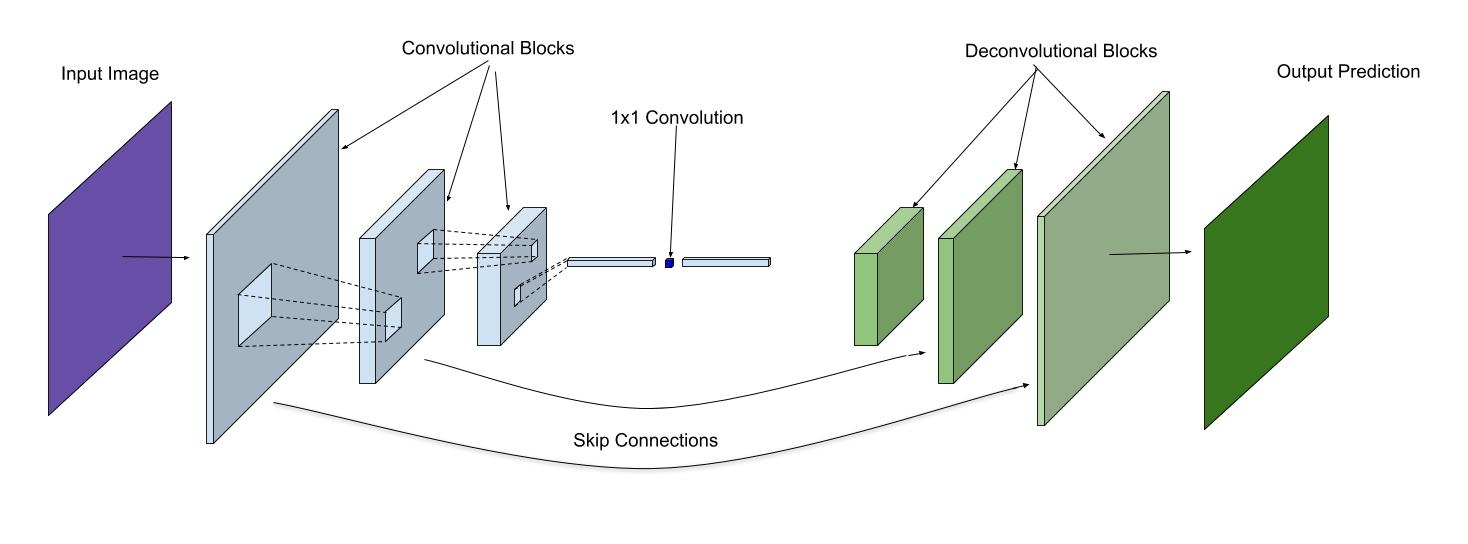
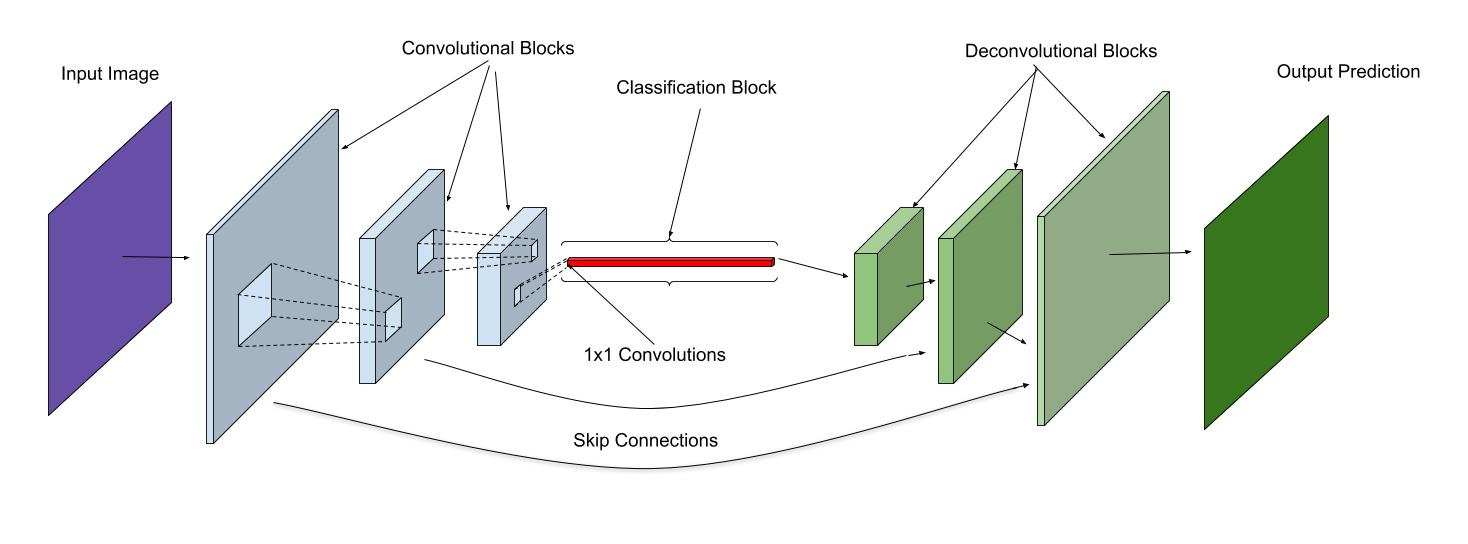
Project Media update and README List check

Changed region(s): [[0.4292, 0.125, 0.5211, 0.25], [0.3678, 0.4375, 0.5518, 0.5], [0.3985, 0.625, 0.4905, 0.6875]]

diff --git a/README.md b/README.md
@@ -9,7 +9,7 @@ This project covers the theory and techniques in training a neural network to id
 
 Given two or more groups of data within a data set, a boundary can be drawn separating the data groups. This boundary is defined by a function whose parameters can be determined through logistic regression. The goal of logistic regression function is to predict the probability of a data point being within a boundary defined by an equation. The parameters are tuned through iteration with a training data set, with the rate of tuning weighted by a learning rate. 
 
-<img src="" alt="Examples of Boundary Fitting" width="480px">
+<img src="https://github.com/bchou2012/RoboND-DeepLearning-Project-Benjamin-Chou/blob/master/writeup_media/Statistical%20Fitting.jpg?raw=true" alt="Examples of Boundary Fitting" width="480px">
 
 In the scope of this project, logistic regression is used to create predictive functions that define image features at all scales of the image, from points and simple lines to geometric shapes to distinct objects. 
 
@@ -31,7 +31,7 @@ For larger matrices larger strides can be used, which reduces output size at the
 
 The above example also shows no padding, as the convolution matrix passes over edge and corner positions far less than interior positions. Zero padding adds zeros around the perimeter of the matrix, allowing the edge positions to be evaluated as normally as non-edge positions. 
 
-<img src="https://github.com/vdumoulin/conv_arithmetic/blob/master/gif/padding_strides.gif?raw=true" alt="animated convolution example 2" width="329px">
+<img src="https://github.com/vdumoulin/conv_arithmetic/blob/master/gif/padding_strides.gif?raw=true" alt="animated convolution example 2" width="320px">
 
 *Image Source: https://github.com/vdumoulin/conv_arithmetic/*
 
@@ -41,42 +41,53 @@ The above example shows a 5x5 matrix with a 3x3 convolution run on it with a str
 
 While the images are downsized through convolutions, hidden layers are also created. These layers contain neurons, which take inputs and produce an output similar to logic gates. For the purposes of this project the neurons use two activations, rectilinear and softmax. 
 
-Rectilinear produces a nonlinear output, zero below a threshold, and a linear output above the threshold. Rectilinear units (ReLU) are used in the convolution blocks of the project. Softmax returns a vector that represents a probability distribution. This is used at the end of the fully convolutional network of the project to return the constructed probability output. 
+Rectilinear produces a nonlinear output, zero below a threshold, and a linear output above the threshold. Rectilinear units (ReLU) are used in the convolution blocks of the project. 
 
+<img src="https://cdn.tinymind.com/static/img/learn/relu.png" alt="ReLu Example" width="320px">
+
+*Image source: https://www.tinymind.com/learn/terms/relu*
+
+Softmax returns a vector that represents a probability distribution of the inputs.  This is used at the end of the fully convolutional network of the project to return the constructed probability output. 
+
+<img src="https://cdn-images-1.medium.com/max/1000/0*2r10e7gw1jzOsHhC.png" alt="Softmax Example" width="320px">
+
+*Image source: https://towardsdatascience.com/deep-learning-concepts-part-1-ea0b14b234c8* 
 
 **Fully Convolutional Neural Network**
 
-<img src="https://www.mathworks.com/content/mathworks/www/en/solutions/deep-learning/convolutional-neural-network/jcr:content/mainParsys/band_copy_copy_14735_1026954091/mainParsys/columns_1606542234_c/2/image.adapt.full.high.jpg/1530247928116.jpg" alt="Convolutional Network Structure" width="640px">
+<img src="https://github.com/bchou2012/RoboND-DeepLearning-Project-Benjamin-Chou/blob/master/writeup_media/Fully%20Convolutional%20Network.jpg?raw=true" alt="Sample FCN Diagram" width="640px">
 
-*Image Source: https://www.mathworks.com/solutions/deep-learning/convolutional-neural-network.html*
+The input is an image, broken down into three layers which represent the image's R, G, and B value at each pixel. The input undergoes any number of convolutions with smaller and smaller convolution matrix sizes but greater depth. After the last convolution the filters undergo a 1x1 convolution to reduce the number of parameters and decrease processing time. 
 
-The input is an image, broken down into three layers which represent the image's R, G, and B value at each pixel. The input undergoes any number of convolutions with smaller and smaller convolution matrix sizes but greater depth. After the last convolution the data undergoes a 1x1 convolution to reduce dimensionality and decrease processing time. 
+The classifcations are then built back up into an output prediction image using deconvolutional layers, which builds up larger images from smaller images using bilinear upsampling, which predicts what the missing data values would be in upscaling.  
 
-The predictions are then built back up into an output prediction image using deconvolutional layers, which builds up larger images from smaller images using bilinear upsampling. 
-
-For a fully convolutional neural network, skip connections are added, which connects convolutional layers to deconvolutional layers. This helps with the possible data loss and artifacts created through bilinear upsampling. 
+Skip connections are added, which connects convolutional layers to deconvolutional layers. This helps with the possible data loss and artifacts created through bilinear upsampling by providing the data of same filter level before the downsampling/upsampling process.  
  
-
-*1x1 Convolution*
-
-
-
-
-
-
 ## Collecting Training Data
+
 Due to time constraints the GitHub provided data set was used to train the network. While exploration of the environment and pathing was set in QuadSim, a satisfactory and thorough data set was unable to be recorded. 
+
+<img src="https://github.com/bchou2012/RoboND-DeepLearning-Project-Benjamin-Chou/blob/master/docs/misc/sim_screenshot.png?raw=true" alt="Quadsim in action" width="320px">
+
 
 ## Implement the Segmentation Network
 
-The provided `model_training.ipynb` file provided preconstructed functions for separable and regular convolutions, defined as `separable_conv2d_batchnorm()` and  `conv2d_batchnorm()`
+**Network Construction**
 
-Using those
+The provided `model_training.ipynb` file provided preconstructed functions for separable and regular convolutions, and bilinear upsampling, defined as `separable_conv2d_batchnorm()`, `conv2d_batchnorm()` and `bilinear_upsample()`. The separable convolution runs the input filter through a 1x1 convolution to reduce dimensionality as discussed previously. 
 
 *Encoder Block*
-The encoder block runs an input through the `separable_conv2d_batchnorm()`
+The encoder block runs an input layer through the `separable_conv2d_batchnorm()`, along with filter size and stride parameters. The input layer undergoes convolution and a hidden layer with ReLU activation, which is then returned. This function is defined as `encoder_block()`
 
 *Decoder Block*
+The decoder block upsizes the input layer with the `bilinear_upsample()`. Logic is added to allow for selection of a skip layer to be concatenated with the upsampled input, then run through the `seperable_conv2d_batchnorm()`. This function is defined as `decoder_block()`
+
+*Fully Convolutional Network*
+
+Constructing the Fully Convolutional Network is as follows:
+
+..* A number of encoder blocks are added, with each depth increasing the number of filters.
+..*
 
 **Hyperparameters**
 
@@ -94,15 +105,38 @@ In conjunction with number of epochs and validation steps, a small learning rate
 
 These three hyperparameters have effects on each other. Batch size is how many data sets (in this case images) are processed per pass. Steps per Epoch is how many batches are run per epoch. To process all the images in a single epoch, the product of the batch size and the steps would have to be at least equal to the number of images. Epochs is the number of times the whole data set is processed.
 
-A large batch size means more data sets are processed before the function corrects its parameters, but is resource-intensive. A smaller batch size uses less resources, but correcting the function based on small sample sizes means a greater chance of error. 
+A large batch size means more data sets are processed before the function corrects its parameters, but is resource-intensive. A smaller batch size uses less resources, but correcting the function based on small batch sizes means a greater chance of error. 
 
-A large epoch size m. A small epoch size
+A large epoch size is useful for small learning rates, as small learning rates propagate parameter corrections slowly. If an epoch size is too large the classifier may overcorrect and end up moving away from the desired results. A small epoch size reduces run time and the possibility over overcorrection, but depending on the learning rate may not reach the global minimum error. 
+
+<img src="" alt="" width="640px">
 
 *Validation Steps*
 
-Validation steps is the number 
+Validation steps is the number of validation sets checked against the training sets. A large validation set overtrains the training set against the validation data which may leave the output results too fitted against the validation data, and provide less accuracy against "real" data inputs. 
 
 
+**Prediction Process**
+
+After the FCN is trained, the predictions are compared to the validation image set. 
+
+The three prediction parameters are:
+
+..*
+..*
+..*
+## Results
+
+
+*Bilinear Upsampling and Strides*
+
+*Input Resolution*
+
+Runs with using the full image size of 256 H x W provided the final passing results. Downsizing to 160 H x W as suggested by the project code means scaling the base image down by almost 40%. Combined with the low batch size this co
+
+Scaling down the image size allows for smaller inputs and faster processing. For the context of this project the scaling down to 160 H x W consistently proved to enough detail loss to consistently miss the 40% passing rate, in conjunction with other implementation limitations. 
+
+*Batch size vs Filter Depth*
 
 
 <img src="" alt="" width="640px">
